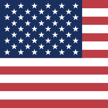
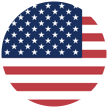
chore(resources): 更新配置与配套资源
同步调整配置示例、配套资源与说明。

diff --git a/tools/config_templates.py b/tools/config_templates.py
@@ -57,12 +57,12 @@ def render_full_config(profile, filter_text, annotation_date, rewrite_text='', c
             urls[resource['id']] = expected
     active = ', '.join(label for _, label, _, enabled in REGIONS if enabled)
     policies = [
-        f'static = Global, {active}, proxy, direct, img-url={RAW_ROOT}/icon/proxy.png',
+        f'static = Global, {active}, proxy, direct, img-url={RAW_ROOT}/icon/global.png',
         '# Global 对应原配置的“全球加速”总组（避免占用 Quantumult X 系统保留名 PROXY/proxy）。',
         '# 默认使用香港，可随时手动改选地区；首次导入后确认 Global 已勾选 Hong Kong。',
         '# Hong Kong 保留在首个候选；实际选中项以客户端界面为准，各地区内部自动按延迟择优。',
         '# 分流资源可直接选 reject / direct / Global，也可直接指定 Hong Kong 等地区组。',
-        '# 检测间隔 check-interval=600、延迟容差 tolerance=50；空闲组不持续检测。',
+        '# 检测间隔 check-interval=600、延迟容差 tolerance=20。',
         '# 检测受策略活动状态影响，不保证故障发生时立即切换，也不验证所有业务可用性。',
         f'# {sum(enabled for _, _, _, enabled in REGIONS)} 个地区默认全部定义，不保证空地区自动隐藏；没有候选的地区不要选择。',
         '# 不需要某地区时，注释该地区行，并从 Global 中移除同名候选。',
@@ -72,7 +72,7 @@ def render_full_config(profile, filter_text, annotation_date, rewrite_text='', c
     ]
     for code, label, expression, enabled in REGIONS:
         line = (f'url-latency-benchmark = {label}, server-tag-regex={region_regex(expression)}, '
-                'check-interval=600, tolerance=50, alive-checking=false, '
+                'check-interval=600, tolerance=20, '
                 f'img-url={RAW_ROOT}/icon/{code.lower()}.png')
         policies.extend([f'# {label} ({code})', line if enabled else '# ' + line])
     filter_body = filter_text.split('[filter_remote]\n', 1)[1].rstrip()
@@ -121,7 +121,7 @@ server_check_url = http://www.gstatic.com/generate_204
 # 沿用原配置的节点检测阈值：3000 毫秒为 3 秒，不是所有连接的超时设置。
 server_check_timeout = 3000
 # 整份配置的显示图标；策略组各自的图标由 img-url 设置。
-profile_img_url = {RAW_ROOT}/icon/proxy.png
+profile_img_url = {RAW_ROOT}/icon/global.png
 # 沿用原配置：关闭额外的 IP 地区查询入口。
 geo_location_checker = disabled
 # 沿用 Shawn 的资源解析器入口；本库原生 QX 规则继续使用 opt-parser=false。

diff --git a/tools/rewrite_catalog.py b/tools/rewrite_catalog.py
@@ -55,7 +55,7 @@ def create_plan(root, raw_root, existing_files):
                 stripped = line.strip()
                 if not stripped or stripped.startswith(('#',';','//')):
                     if stripped.startswith('#!raw-url='): line = f'#!raw-url={raw_root}/{output}'
-                    if stripped.startswith('#!icon='): line = f'#!icon={raw_root}/icon/proxy.png'
+                    if stripped.startswith('#!icon='): line = f'#!icon={raw_root}/icon/global.png'
                     if stripped.startswith('#!date='): line = f'#!date={project["checked_on"]}'
                     body.append(line); continue
                 if re.match(r'(?i)^(host|host-suffix|host-keyword|ip-cidr|ip6-cidr),',stripped):

diff --git a/tools/test_resource_contracts.py b/tools/test_resource_contracts.py
@@ -45,7 +45,7 @@ class ConfigurationContractTests(unittest.TestCase):
         benchmarks=[x for x in policies if x.startswith('url-latency-benchmark = ')]
         self.assertEqual(len(benchmarks),sum(enabled for _,_,_,enabled in REGIONS))
         for line in benchmarks:
-            self.assertIn('tolerance=50,',line)
+            self.assertIn('tolerance=20,',line)
         self.assertFalse(any('自动选择' in x for x in policies))
 
     def test_rendered_resources_remain_enabled_and_sections_are_not_duplicated(self):

diff --git a/README.md b/README.md
@@ -29,9 +29,9 @@ QuantumultX-resources/
 │   ├── app2smile/                  # 13 个重写配套脚本（MIT 许可）
 │   ├── fmz200/                     # 23 个重写配套脚本（GPL-3.0 许可）
 │   └── tools/                      # 4 个全局工具脚本（Shawn 资源解析器、流媒体解锁检测、BoxJS、UI 任务）
-├── icon/                       # 策略组图标（108×108 PNG）
-│   ├── proxy.png                   # Global 总组与配置封面蓝绿地球图标
-│   └── hk.png / tw.png / ...       # 13 个国家／地区正方形旗帜图标
+├── icon/                       # 策略组图标（108×108 圆形 RGBA PNG）
+│   ├── global.png                  # Global 总组与配置封面蓝绿地球图标
+│   └── hk.png / tw.png / ...       # 13 个国家／地区圆形旗帜图标
 ├── sources/                    # 上游原始快照、个人选择配置与版本哈希锁文件
 └── tools/                      # 规则构建、配置生成、域名查询与自动化测试工具
 ```
@@ -54,7 +54,7 @@ QuantumultX-resources/
 - **内置动作**：`direct`（直连）、`reject`（拒绝）、`proxy`（内置代理）。
 - **总代理组 `Global`**：手动选择地区（默认候选首位为 `Hong Kong`），切换 `Global` 时所有绑定 `Global` 的服务同步切换出口地区。
 - **地区策略组（默认启用 5 个主力地区 + 8 个注释备用）**：
-  - 默认启用：`Hong Kong`、`Taiwan`、`Japan`、`Singapore`、`United States`（各地区内部采用 `url-latency-benchmark`，间隔 600 秒、容差 50 毫秒自动按延迟择优）。
+  - 默认启用：`Hong Kong`、`Taiwan`、`Japan`、`Singapore`、`United States`（各地区内部采用 `url-latency-benchmark`，间隔 600 秒、容差 20 毫秒自动按延迟择优）。
   - 注释备用：`South Korea`、`United Kingdom`、`Germany`、`France`、`Canada`、`Australia`、`Turkey`、`Indonesia`（如需使用，取消对应行注释并加入 `Global` 候选即可）。
 - **多机场筛选**：见 [`examples/README.md`](examples/README.md#多机场筛选)。
 
@@ -138,4 +138,4 @@ python3 tools/build.py --refresh
 | [app2smile/rules](https://github.com/app2smile/rules) | 9 个重写模块与 13 个配套脚本（`scripts/app2smile/`） | [MIT](rewrite/licenses/app2smile-MIT.txt)（运行库见 [第三方说明](scripts/THIRD-PARTY-NOTICES.md)） |
 | [fmz200/wool_scripts](https://github.com/fmz200/wool_scripts) | 28 个重写模块、23 个配套脚本（`scripts/fmz200/`）及去广告分流 | [GPL-3.0](rewrite/licenses/fmz200-GPL-3.0.txt) |
 | [KOP-XIAO/QuantumultX](https://github.com/KOP-XIAO/QuantumultX) & [chavyleung/scripts](https://github.com/chavyleung/scripts) | 资源解析器、流媒体解锁检测、UI 任务与 BoxJS 脚本（`scripts/tools/`） | 保留原作者署名与固定版本哈希（[`sources/remote-resources.lock.json`](sources/remote-resources.lock.json)） |
-| [lipis/flag-icons](https://github.com/lipis/flag-icons) & [Natural Earth](https://www.naturalearthdata.com/about/terms-of-use/) | `icon/` 下的 13 个国家／地区旗帜与 `proxy.png` 地球图标 | [MIT](icon/licenses/flag-icons-MIT.txt) & [Public Domain](icon/licenses/natural-earth-PUBLIC-DOMAIN.txt) |
+| [lipis/flag-icons](https://github.com/lipis/flag-icons) & [Natural Earth](https://www.naturalearthdata.com/about/terms-of-use/) | `icon/` 下的 13 个国家／地区旗帜与 `global.png` 地球图标 | [MIT](icon/licenses/flag-icons-MIT.txt) & [Public Domain](icon/licenses/natural-earth-PUBLIC-DOMAIN.txt) |

diff --git a/examples/config-guide.md b/examples/config-guide.md
@@ -119,15 +119,14 @@ static = Global, Hong Kong, Taiwan, Japan, Singapore, United States, proxy, dire
 | `url-latency-benchmark` | 原配置使用的按请求响应延迟选择候选的类型；测速快不保证特定服务可用 |
 | `check-interval=600` | 自动检测相关的间隔，单位秒，即 10 分钟；实际检测受策略活动状态等条件影响 |
 | `tolerance` | 延迟选择的容差；它影响结果选择，不是超时时间 |
-| `alive-checking` | 与空闲时是否继续检测相关，需结合客户端版本及策略类型使用 |
 
-本模板的 `PROXY` 是手动选择地区的 `static` 组；地区内部恢复原配置的 `url-latency-benchmark`，按检测延迟自动择优。例如选择 `Hong Kong` 后，仅在匹配到的香港节点之间比较，不会因日本节点更快而自动换到日本。
+本模板的 `Global` 是手动选择地区的 `static` 组；地区内部恢复原配置的 `url-latency-benchmark`，按检测延迟自动择优。例如选择 `Hong Kong` 后，仅在匹配到的香港节点之间比较，不会因日本节点更快而自动换到日本。
 
-检测参数设置 `check-interval=600`（10 分钟）、`tolerance=50`（50 毫秒容差），并明确 `alive-checking=false`，空闲组不持续检测。实际检测时机受策略活动状态等条件影响，因此不是即时、无中断的故障接管。检测地址可访问也不代表所有 AI、登录或流媒体业务可用。
+检测参数设置 `check-interval=600`（10 分钟）、`tolerance=20`（20 毫秒容差）。实际检测时机受策略活动状态等条件影响，因此不是即时、无中断的故障接管。检测地址可访问也不代表所有 AI、登录或流媒体业务可用。
 
-`tolerance=50` 表示新候选节点需比当前节点快超过 50 毫秒才会触发切换，减少同地区延迟接近的节点因微小波动频繁跳动 IP；仍不等于长期会话出口绝对固定，需要在实际业务中观察。
+`tolerance=20` 表示新候选节点需比当前节点快超过 20 毫秒才会触发切换，减少同地区延迟接近的节点因微小波动频繁跳动 IP；仍不等于长期会话出口绝对固定，需要在实际业务中观察。
 
-默认启用 **港、台、日、新、美 5 个主力地区**，其余 8 个地区保留注释备用。如需启用备用地区，取消其定义行注释并加入 `PROXY` 候选即可；不需要某地区时，注释它的定义行，并移除 `PROXY` 中对应候选。
+默认启用 **港、台、日、新、美 5 个主力地区**，其余 8 个地区保留注释备用。如需启用备用地区，取消其定义行注释并加入 `Global` 候选即可；不需要某地区时，注释它的定义行，并移除 `Global` 中对应候选。
 
 原配置的地区表达式用了包含、排除和忽略大小写等正则写法；本模板重新编写了匹配规则。详细多机场示例见 [模板说明](README.md#多机场筛选)。
 

diff --git a/examples/README.md b/examples/README.md
@@ -33,10 +33,10 @@
 
 ```text
 机场订阅 → 带名称的节点 → 地区名称筛选 → Hong Kong / Taiwan / Japan / Singapore / United States / South Korea 等组
-服务规则 → PROXY → 手动选择某个地区组 → 在该地区内按检测延迟自动选择节点
+服务规则 → Global → 手动选择某个地区组 → 在该地区内按检测延迟自动选择节点
 ```
 
-`Global` 对应原配置的“全球加速”总组（避免占用 Quantumult X 系统保留名 `PROXY`/`proxy`），使用 `static` 手动选择地区，候选默认列入 **5 个主力地区**（`Hong Kong`、`Taiwan`、`Japan`、`Singapore`、`United States`）及内置 `proxy`、`direct`，其余 8 个地区保留注释备用；默认使用香港，可随时改选。香港保留在首个候选，首次导入后在客户端确认已勾选 `Hong Kong`，实际选中状态以界面为准。各地区组沿用 `url-latency-benchmark`，在筛选出的同地区节点中按检测延迟自动择优，`check-interval=600`、`tolerance=50`；`alive-checking=false` 表示不为空闲组持续检测。检测时机还受策略活动状态影响，不保证故障瞬间切换，也不保证低延迟节点能访问所有服务。
+`Global` 对应原配置的“全球加速”总组（避免占用 Quantumult X 系统保留名 `PROXY`/`proxy`），使用 `static` 手动选择地区，候选默认列入 **5 个主力地区**（`Hong Kong`、`Taiwan`、`Japan`、`Singapore`、`United States`）及内置 `proxy`、`direct`，其余 8 个地区保留注释备用；默认使用香港，可随时改选。香港保留在首个候选，首次导入后在客户端确认已勾选 `Hong Kong`，实际选中状态以界面为准。各地区组沿用 `url-latency-benchmark`，在筛选出的同地区节点中按检测延迟自动择优，`check-interval=600`、`tolerance=20`。检测时机还受策略活动状态影响，不保证故障瞬间切换，也不保证低延迟节点能访问所有服务。
 
 分流时可选择 `reject`（拒绝）、`direct`（直连）、`Global`（跟随总组当前所选地区），或直接选择 `Hong Kong`、`Japan` 等地区组。直接指定地区的资源独立于 `Global` 的地区选择。各地区在 `[policy]` 中分别定义筛选与测速，再由 `Global` 引用；这种引用形成总组与地区组的关系，配置文件不通过缩进表达层级。
 

diff --git a/icon/README.md b/icon/README.md
@@ -6,7 +6,7 @@
 
 | 策略名称 / 用途 | 图标文件 | 来源与许可 |
 | --- | --- | --- |
-| `Global` 总策略组 / 配置封面 | [proxy.png](proxy.png) | 基于 [Natural Earth](https://www.naturalearthdata.com/about/terms-of-use/) 公共领域海陆轮廓制作（[说明](licenses/natural-earth-PUBLIC-DOMAIN.txt)） |
+| `Global` 总策略组 / 配置封面 | [global.png](global.png) | 基于 [Natural Earth](https://www.naturalearthdata.com/about/terms-of-use/) 公共领域海陆轮廓制作（[说明](licenses/natural-earth-PUBLIC-DOMAIN.txt)） |
 | Hong Kong | [hk.png](hk.png) | [lipis/flag-icons](https://github.com/lipis/flag-icons)（[MIT 许可](licenses/flag-icons-MIT.txt)） |
 | Taiwan | [tw.png](tw.png) | [lipis/flag-icons](https://github.com/lipis/flag-icons)（[MIT 许可](licenses/flag-icons-MIT.txt)） |
 | Japan | [jp.png](jp.png) | [lipis/flag-icons](https://github.com/lipis/flag-icons)（[MIT 许可](licenses/flag-icons-MIT.txt)） |
@@ -21,6 +21,6 @@
 | Turkey | [tr.png](tr.png) | [lipis/flag-icons](https://github.com/lipis/flag-icons)（[MIT 许可](licenses/flag-icons-MIT.txt)） |
 | Indonesia | [id.png](id.png) | [lipis/flag-icons](https://github.com/lipis/flag-icons)（[MIT 许可](licenses/flag-icons-MIT.txt)） |
 
-- 地区旗帜采用 1:1 满幅正方形 108×108 PNG，交由 Quantumult X 客户端自动裁切圆角。
-- `proxy.png` 为正圆球体蓝海绿陆图标，圆外完全透明。
+- 地区旗帜采用 1:1 圆形 108×108 RGBA PNG（圆外透明）。
+- `global.png` 为正圆球体蓝海绿陆图标，圆外完全透明。
 - `direct` 与 `reject` 为 Quantumult X 内置动作，无需自定义策略组图标。
